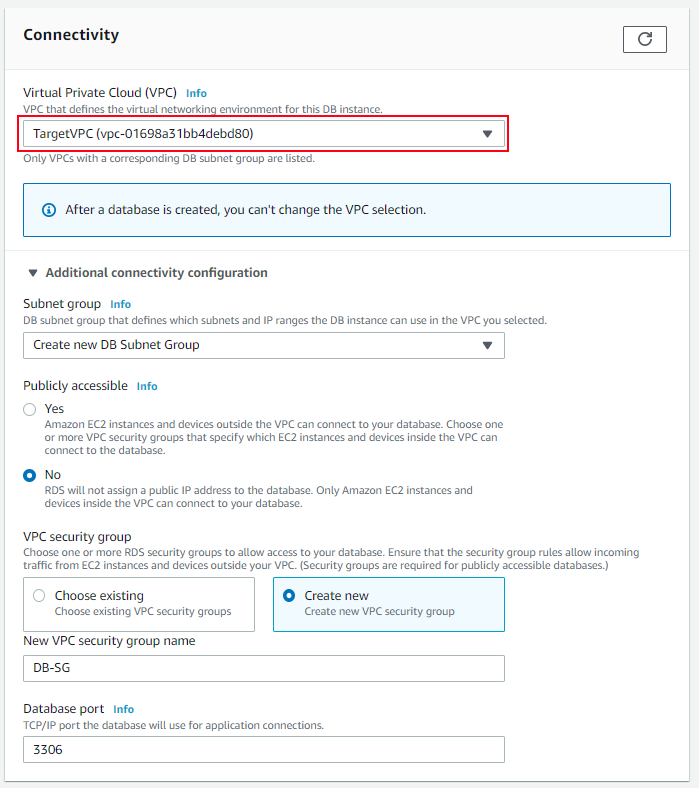
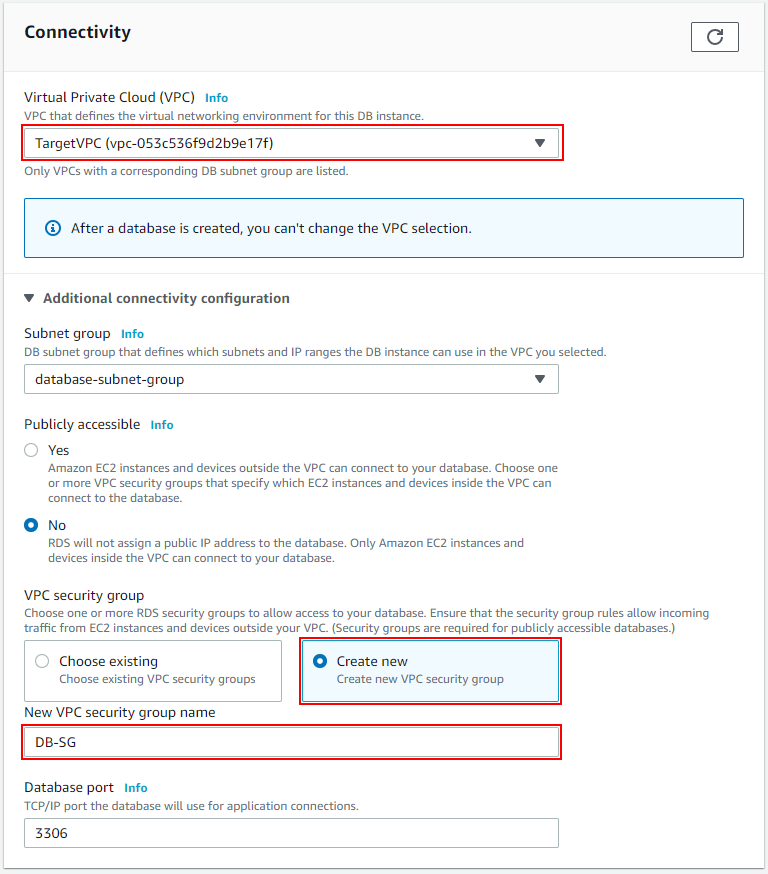
Adding 2nd pair of private subnets and respective changes to instructions.

diff --git a/workshop/content/database-migration/Create-target-DB.en.md b/workshop/content/database-migration/Create-target-DB.en.md
@@ -7,11 +7,27 @@ weight = 10
 
 Database migrations can be performed in a number of ways, and for the purpose of this workshop we will perform a **continuous data replication** migration using <a href="https://aws.amazon.com/dms/" target="_blank">AWS Database Migrations Service (DMS)</a>.
 
-### Create the target database
-
 Before you configure **AWS DMS**, you will need to create your target database in the AWS account provided. Use **AWS Relation Database Service (RDS)** to perform this activity making it easy to set up, operate, and scale a relational database in the cloud.
 
-1. Go to the **AWS Console**, from **Services** choose **RDS** and then click **Create database**
+### Create the subnet group for target database
+
+1. Go to the **AWS Console**, from **Services** choose **RDS**, select **Subnet groups** from the menu on the left and click **Create DB Subnet Group**
+
+2. On the **Create DB subnet group** enter the following information
+
+    | Parameter           | Value                    |
+    | ------------------- | ------------------------ |
+    | Name                | database-subnet-group     |
+    | Description         | Subnets where RDS will be deployed |
+    | VPC      | TargetVPC            |
+    
+    In the **Add subnets** panel add one subnet from each Availability Zone (us-west-2a and us-west-2b) with CIDRs 10.0.101.0/24 and 10.0.201.0/24, then press **Create** button.
+
+    ![RDS Subnet group creation](/db-mig/db-subnet-group.en.png)    
+
+### Create the target database
+    
+3. Now select **Databases** from the menu on the left and click **Create database** 
 
 2. From the **Engine options**, select MySQL and Version MySQL 5.7.22
 
@@ -46,14 +62,13 @@ For production workloads, we recommend enabling the standby instance to enable <
 
     * In **Virtual Private Cloud (VPC)**, select **TargetVPC** (this is the <a href="https://aws.amazon.com/vpc/" target="_blank">Amazon Virtual Private Cloud</a> that was automatically created for this lab)
     * In **Additional connectivity configuration -> VPC Security Group**, select **Create new** VPC security group and give it a name (e.g. "DB-SG").
-
+    * Note that the DB Subnet group you have created earlier will be automatically selected
 
     ![6_db](/db-mig/6_db.png)
 
 
-
     {{% notice note %}}
-Note: You will edit this VPC security group later to make sure that the DMS Replication Instance is able to access the target database and to allow access from your Webserver.
+Note: You will edit the DB-SG VPC security group later to make sure that the DMS Replication Instance is able to access the target database and to allow access from your Webserver.
 {{% /notice %}}
 
 5. For the **Database authentication**, choose **Password authentication**.
